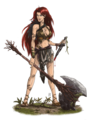
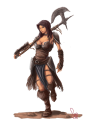
Display player image on areaWallpaper
Removed obsolete code
New barbarian icons

diff --git a/src/bi/team/Game.java b/src/bi/team/Game.java
@@ -76,13 +76,19 @@ public class Game extends JFrame implements ActionListener {
 	private Enemy enemySelected;
 	private JLabel lblLevel_current;
 	private JLabel lblLevel_next;
-	private SimpleAttributeSet leftAlign;
-	private SimpleAttributeSet rightAlign;
+	private JLabel lblEnemyName;
+	private JLabel lblPlayerName;
+	private JLabel lblEnemyImage;
+	private JLabel lblPlayerImage;
+	private int heroSex;
 	
 	// create the frame
-	public Game(String name, int chosenHero, int giftNum) {
+	public Game(String name, int chosenHero, int heroSex, int giftNum) {
 
 		// TODO instantiate gift parameter
+		
+		// instantiate objects
+		this.heroSex = heroSex;
 
 		// health bar esthetics
 		UIManager.put("ProgressBar.selectionForeground", Color.darkGray);
@@ -246,6 +252,7 @@ public class Game extends JFrame implements ActionListener {
 		lblHeartPlayer.setBounds(3, 3, 32, 32);
 		lblHeartPlayer.setIcon(new ImageIcon(getClass().getResource("/images/heart.png")));
 		panel_player.add(lblHeartPlayer);
+		
 		// enemy's health icon
 		JLabel lblHeartEnemy = new JLabel("HP");
 		lblHeartEnemy.setForeground(Color.WHITE);
@@ -321,33 +328,33 @@ public class Game extends JFrame implements ActionListener {
 		scroll.getViewport().setOpaque(false);
 		panel_areaField.add(scroll);
 
-		// create label to display area image
-		areaWallpaper = new JLabel();
-		areaWallpaper.setBounds(0, 0, 1044, 333);
-		areaWallpaper.setIcon(new ImageIcon(getClass().getResource("/images/areas/meadowlands.jpg")));
-		panel_areaField.add(areaWallpaper);
-
 		// create the enemy's picture
-		JLabel lblEnemyImage = new JLabel("");
+		lblEnemyImage = new JLabel("");
 		lblEnemyImage.setBounds(825, 100, 209, 222);
 		panel_areaField.add(lblEnemyImage);
 
 		// create label to display player's name
-		JLabel lblPlayerName = new JLabel(name);
+		lblPlayerName = new JLabel(name);
 		lblPlayerName.setFont(new Font("Comic Sans MS", Font.PLAIN, 12));
 		lblPlayerName.setBounds(10, 76, 208, 20);
 		panel_areaField.add(lblPlayerName);
 
 		// create the player's picture
-		JLabel lblPlayerImage = new JLabel("");
+		lblPlayerImage = new JLabel("");
 		lblPlayerImage.setBounds(10, 100, 208, 222);
 		panel_areaField.add(lblPlayerImage);
 		
 		// create the enemy's name
-		JLabel lblEnemyName = new JLabel("<dynamic>");
+		lblEnemyName = new JLabel("<dynamic>");
 		lblEnemyName.setFont(new Font("Comic Sans MS", Font.PLAIN, 12));
 		lblEnemyName.setBounds(826, 76, 208, 20);
 		panel_areaField.add(lblEnemyName);
+		
+		// create label to display area image
+		areaWallpaper = new JLabel();
+		areaWallpaper.setBounds(0, 0, 1044, 333);
+		areaWallpaper.setIcon(new ImageIcon(getClass().getResource("/images/areas/meadowlands.jpg")));
+		panel_areaField.add(areaWallpaper);
 
 		// create selected hero
 		if (chosenHero == 1)
@@ -404,7 +411,7 @@ public class Game extends JFrame implements ActionListener {
 			if (enemySelected != null) {
 				btnSurrender.setVisible(true);
 				btnSurrender.setEnabled(true);
-				enableAttackButtons();				
+				enableAttackButtons();
 			}
 			hero.enableButtons();
 			btnShowInventory.setEnabled(true);
@@ -489,6 +496,16 @@ public class Game extends JFrame implements ActionListener {
 		return aSet;
 	}
 
+	// return the lblEnemyImage
+	public JLabel getLblEnemyImage() {
+		return lblEnemyImage;
+	}
+
+	// return the lblPlayerImage
+	public JLabel getLblPlayerImage() {
+		return lblPlayerImage;
+	}
+
 	// return the panel_actions jpanel
 	public JPanel getPanel_actions() {
 		return panel_actions;
@@ -506,16 +523,6 @@ public class Game extends JFrame implements ActionListener {
 	// return the panel_player
 	public JPanel getPanel_player() {
 		return panel_player;
-	}
-
-	// return the leftAlign
-	public SimpleAttributeSet getLeftAlign() {
-		return leftAlign;
-	}
-
-	// return the rightAlign
-	public SimpleAttributeSet getRightAlign() {
-		return rightAlign;
 	}
 
 	// return the lblUpgradePoints
@@ -576,6 +583,11 @@ public class Game extends JFrame implements ActionListener {
 	// return the bar_XPBar
 	public JProgressBar getBar_XPBar() {
 		return bar_XPBar;
+	}
+
+	// return the heroSex
+	public int getHeroSex() {
+		return heroSex;
 	}
 
 	// set the upgradePoints

diff --git a/src/bi/team/heroes/Barbarian.java b/src/bi/team/heroes/Barbarian.java
@@ -63,6 +63,8 @@ public class Barbarian extends Hero implements ActionListener {
 	private double sharpness;
 	private double toughness;
 	private double riposteChance;
+	private ImageIcon maleImage;
+	private ImageIcon femaleImage;
 
 	// constructor
 	public Barbarian(Game game) {
@@ -78,6 +80,8 @@ public class Barbarian extends Hero implements ActionListener {
 		sharpness = 1;
 		toughness = 5;
 		riposteChance = 10;
+		maleImage = new ImageIcon(getClass().getResource("/images/heroes/barbarian_male_big.png"));
+		femaleImage = new ImageIcon(getClass().getResource("/images/heroes/barbarian_female_big.png"));
 
 		// configure player GUI
 		game.getBar_playerHealth().setMinimum(0);
@@ -373,6 +377,9 @@ public class Barbarian extends Hero implements ActionListener {
 		// display default attacks by default
 		showOffensiveAttacks();
 		
+		// display player icons
+		initializePlayerIcon();
+		
 	}
 
 	/*
@@ -413,6 +420,18 @@ public class Barbarian extends Hero implements ActionListener {
 			}
 		}
 
+	}
+	
+	// initialize player icons
+	@Override
+	public void initializePlayerIcon() {
+		if (game.getHeroSex() == 1) {
+			game.getLblPlayerImage().setIcon(maleImage);
+		} else if (game.getHeroSex() == 2) {
+			game.getLblPlayerImage().setIcon(femaleImage);
+		} else {
+			System.out.println("[Barbarian.java] Something went wrong retrieving sex!");
+		}	
 	}
 	
 	/*

diff --git a/src/bi/team/BeyondInfinity.java b/src/bi/team/BeyondInfinity.java
@@ -61,6 +61,7 @@ public class BeyondInfinity extends JFrame implements ActionListener {
 	private JLabel lblBarbarian;
 	private JLabel lblSwordsman;
 	private JLabel lblWarlock;
+	private int heroSex;	// 1 = male. 2 = female.
 	
 	// constructor
 	public BeyondInfinity() {	
@@ -517,6 +518,9 @@ public class BeyondInfinity extends JFrame implements ActionListener {
 			btnChemist.setIcon(new ImageIcon(getClass().getResource("/images/heroes/chemist_female.png")));
 			btnChemist.setToolTipText("Mira the Despicable");
 			
+			// set gender
+			heroSex = 2;
+			
 		} else if (selected == btnSex_male) {	
 			// change barbarian
 			lblBarbarian.setText("<html><b>Brynjar</b> the Barbarian</html>");
@@ -538,6 +542,10 @@ public class BeyondInfinity extends JFrame implements ActionListener {
 			lblChemist.setText("<html><b>Merlin</b> the Chemist</html>");
 			btnChemist.setIcon(new ImageIcon(getClass().getResource("/images/heroes/chemist_male.png")));
 			btnChemist.setToolTipText("Merlin the Despicable");
+			
+			// set gender
+			heroSex = 1;
+			
 		}
 		
 	}
@@ -588,7 +596,7 @@ public class BeyondInfinity extends JFrame implements ActionListener {
 
 				// TODO textfield validation
 
-				new Game(nameField.getText(), chosenHero, giftNum);
+				new Game(nameField.getText(), chosenHero, heroSex, giftNum);
 			}
 		});
 

diff --git a/src/bi/team/heroes/Hero.java b/src/bi/team/heroes/Hero.java
@@ -2,6 +2,7 @@ package bi.team.heroes;
 
 import java.util.ArrayList;
 
+import javax.swing.ImageIcon;
 import javax.swing.JButton;
 import javax.swing.JPanel;
 
@@ -22,6 +23,7 @@ public abstract class Hero {
 	protected JButton btnUpgradeStat_4;
 	protected JButton btnUpgradeStat_5;
 	protected JPanel panel_stances;
+	protected ImageIcon heroImage;
 	// initialize hero stats
 	protected int turnsStunned;
 
@@ -59,6 +61,9 @@ public abstract class Hero {
 	// start battle
 	public void setEnemyToFight(Enemy enemy) {
 	}
+	
+	// initialize the player icon
+	public abstract void initializePlayerIcon();
 	
 	// return the vitality
 	public abstract double getCurHealth();
